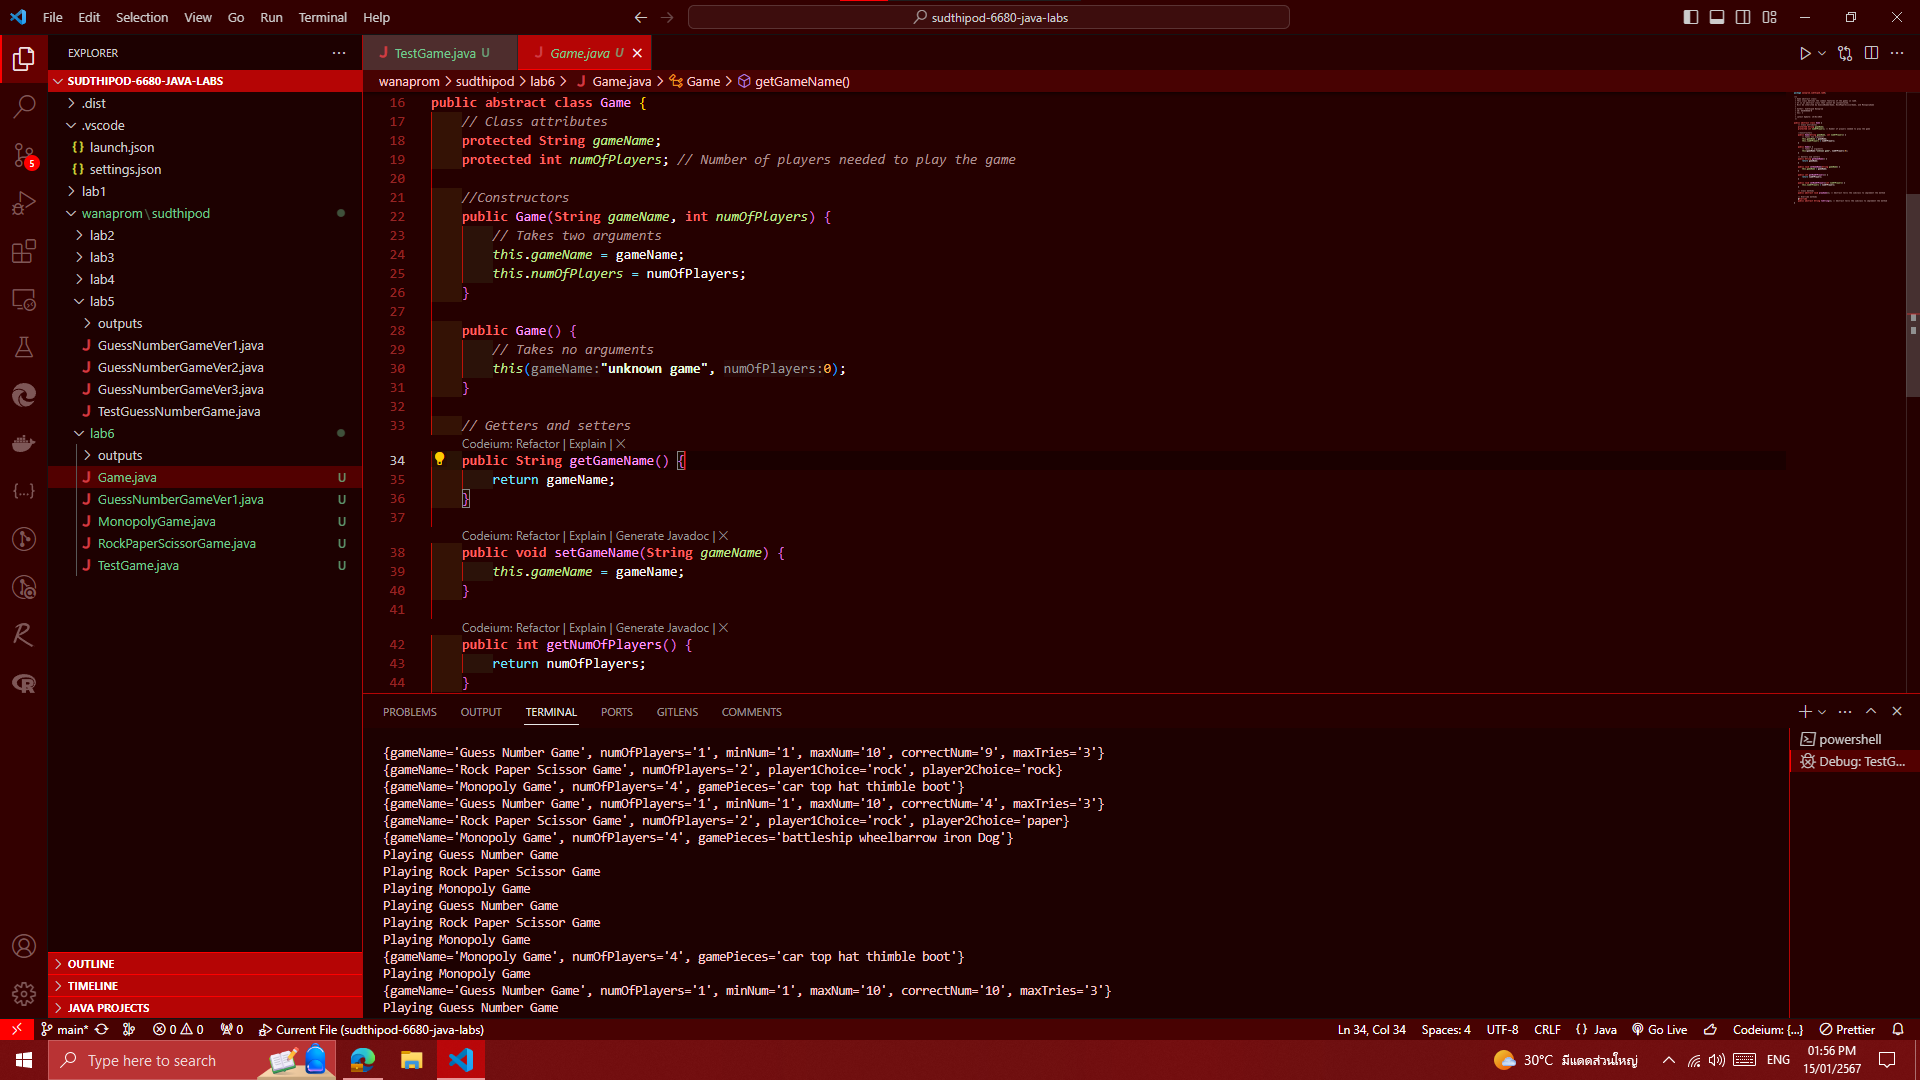
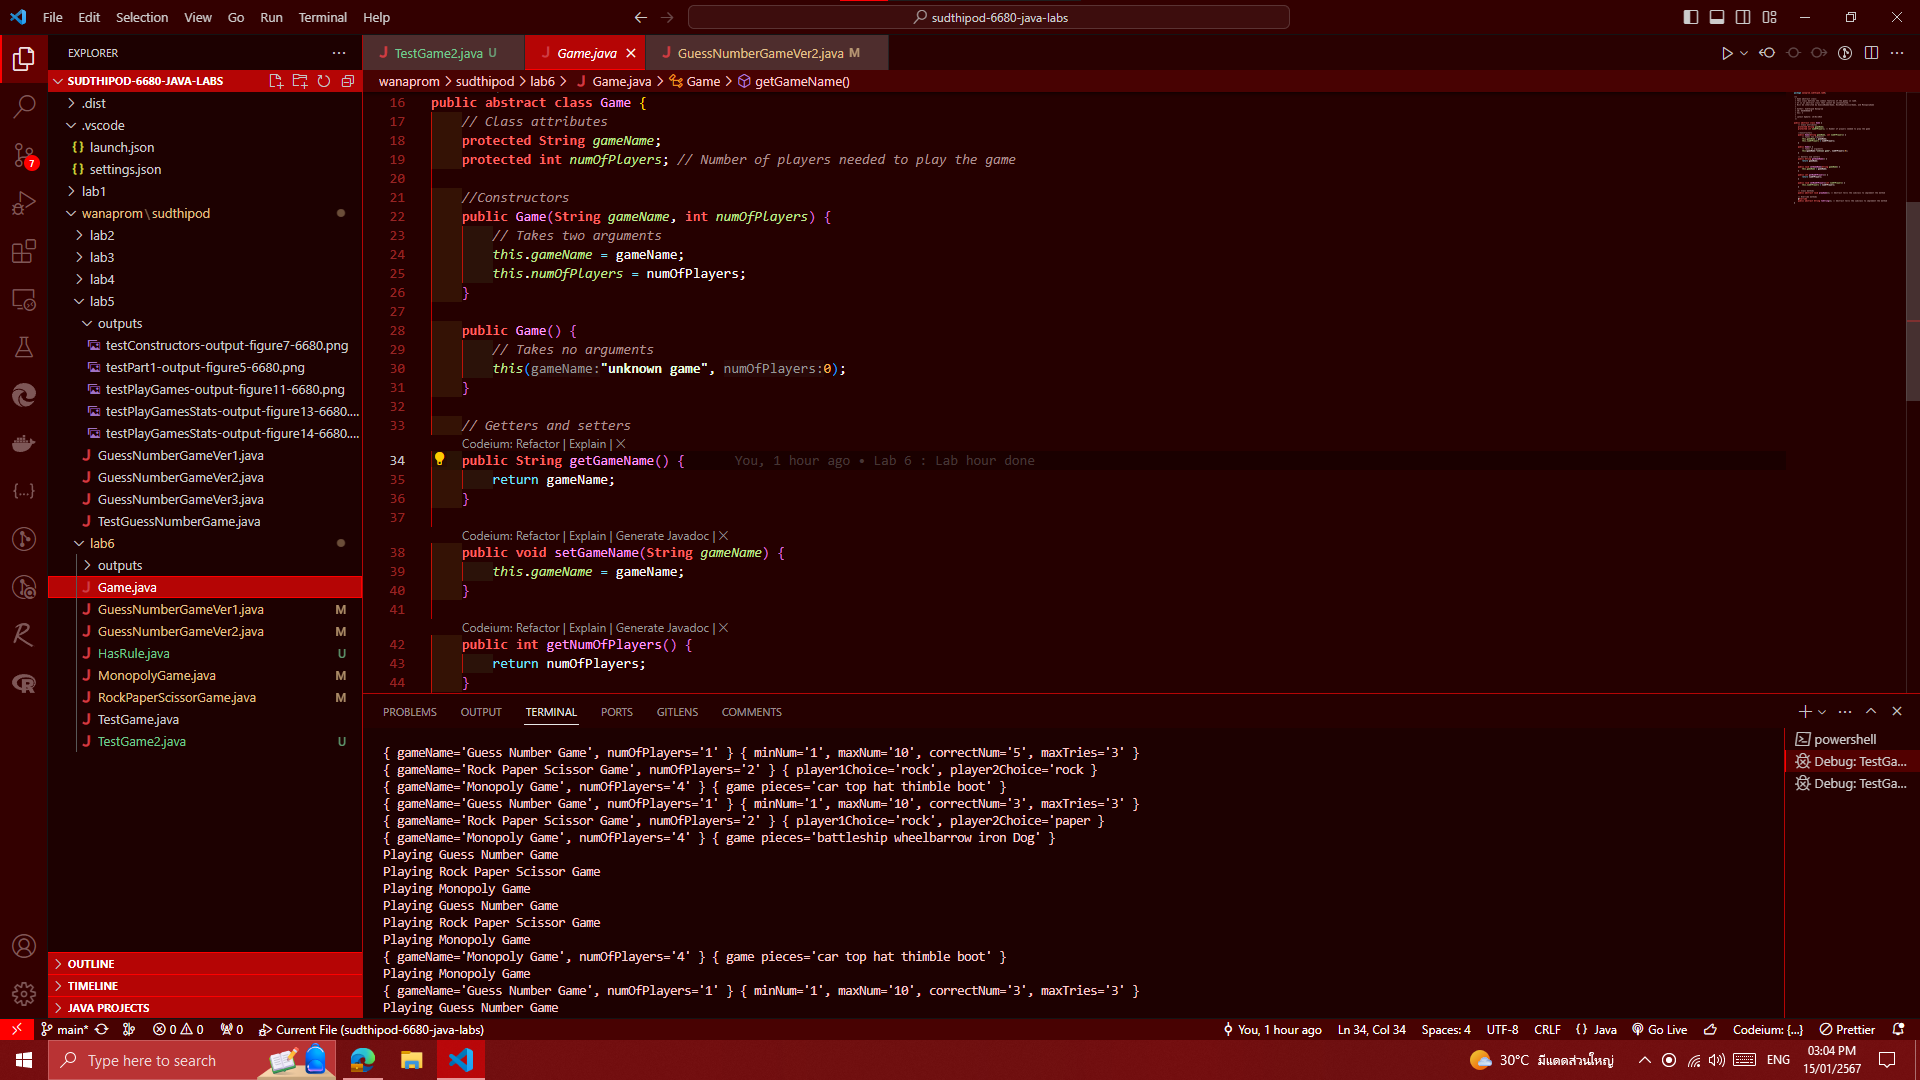
output figures alternated

diff --git a/wanaprom/sudthipod/lab6/GuessNumberGameVer2.java b/wanaprom/sudthipod/lab6/GuessNumberGameVer2.java
@@ -1,6 +1,18 @@
 package wanaprom.sudthipod.lab6;
 
-public class GuessNumberGameVer2 extends GuessNumberGameVer1{
+/**
+ * GuessNumberGameVer2:
+ * This game class is an extension of the GuessNumberGameVer1.
+ * The class implements the HasRule interface.
+ *
+ * Author: Sudthipod Wanaprom
+ * ID: 663040668-0
+ * Sec: 2
+ *
+ * Latest Update: 15/01/2024
+ */
+
+public class GuessNumberGameVer2 extends GuessNumberGameVer1 implements HasRule {
     // Constructors
     public GuessNumberGameVer2(int minNum, int maxNum, int maxTries) {
         super(minNum, maxNum, maxTries);
@@ -13,19 +25,62 @@ public class GuessNumberGameVer2 extends GuessNumberGameVer1{
     public GuessNumberGameVer2() {
         super();
     }
+
+    // Game rules
+    public void gameRule() { // @Override keyword is not needed here
+        System.out.println("Guess Number Game Rules : ...");
+    }
     
     // Play the game method
+    @Override
+    public void playGame() { // Why do we need to override this method?
+        System.out.println("Playing " + super.gameName + " Version 2"); // Announce the game
+
+        /* Gameplay is unnecessary for now
+
+        // Initialization
+        int numOfTries = 0; // Number of tries for each game
+        int userGuess; // User input holder
+
+        // Start the game loop
+        System.out.println("Welcome to a number guessing game!");
+        while (true) {
+            // Get user input
+            System.out.print("Enter an integer between " + minNum + " and " + maxNum + ": ");
+            userGuess = input.nextInt(); // Assume input is an integer in the range from 1 to 10
+            numOfTries++;
+
+            // Judge the answer
+            if (userGuess == correctNum) {
+                System.out.println("Congratulations!");
+                System.out.println("You have tried " + numOfTries + " time" + (numOfTries > 1 ? "s." : "."));
+                break;
+            } else if (userGuess < correctNum) {
+                System.out.println("Try a higher number.");
+            } else {
+                System.out.println("Try a lower number.");
+            }
+
+            // Run out of tries number but still didn't win
+            if (numOfTries >= maxTries) {
+                System.out.println("You have tried " + numOfTries + " time" + (numOfTries > 1 ? "s." : ".") + " You ran out of guesses.");
+                System.out.println("The answer is " + correctNum);
+                break;
+            }
+        }
+        */
+    }
 
     // Override toString() with information about the game
-    @Override
-    public String toString() {
-        return "{" +
+    public String toString() { // @Override keyword is not also needed here
+        return super.gameName + " Version 2 : { " +
                 "gameName='" + super.gameName + "', " +
-                "numOfPlayers='" + super.numOfPlayers + "', " +
+                "numOfPlayers='" + super.numOfPlayers +
+                "' } { " +
                 "minNum='" + this.minNum + "', " +
                 "maxNum='" + this.maxNum + "', " +
                 "correctNum='" + this.correctNum + "', " +
                 "maxTries='" + this.maxTries + "'" +
-                "}";
+                " }";
     }
 }

diff --git a/wanaprom/sudthipod/lab6/GuessNumberGameVer1.java b/wanaprom/sudthipod/lab6/GuessNumberGameVer1.java
@@ -109,13 +109,14 @@ public class GuessNumberGameVer1 extends Game {
 
     // Override toString() with information about the game
     public String toString() { // @Override keyword is not also needed here
-        return "{" +
+        return "{ " +
                 "gameName='" + super.gameName + "', " +
-                "numOfPlayers='" + super.numOfPlayers + "', " +
+                "numOfPlayers='" + super.numOfPlayers +
+                "' } { " +
                 "minNum='" + this.minNum + "', " +
                 "maxNum='" + this.maxNum + "', " +
                 "correctNum='" + this.correctNum + "', " +
                 "maxTries='" + this.maxTries + "'" +
-                "}";
+                " }";
     }
 }

diff --git a/wanaprom/sudthipod/lab6/MonopolyGame.java b/wanaprom/sudthipod/lab6/MonopolyGame.java
@@ -52,10 +52,11 @@ public class MonopolyGame extends Game {
 
     // Override toString() with information about the game
     public String toString() { // @Override keyword is not also needed here
-        return "{" +
+        return "{ " +
                 "gameName='" + super.gameName + "', " +
-                "numOfPlayers='" + super.numOfPlayers + "', " +
-                "gamePieces='" + String.join(" ", gamePieces) + "'" +
-                "}";
+                "numOfPlayers='" + super.numOfPlayers +
+                "' } { " +
+                "game pieces='" + String.join(" ", gamePieces) + "'" +
+                " }";
     }
 }

diff --git a/wanaprom/sudthipod/lab6/RockPaperScissorGame.java b/wanaprom/sudthipod/lab6/RockPaperScissorGame.java
@@ -72,11 +72,12 @@ public class RockPaperScissorGame extends Game {
 
     // Override toString() with information about the game
     public String toString() { // @Override keyword is not also needed here
-        return "{" +
+        return "{ " +
                 "gameName='" + super.gameName + "', " +
-                "numOfPlayers='" + super.numOfPlayers + "', " +
+                "numOfPlayers='" + super.numOfPlayers +
+                "' } { " +
                 "player1Choice='" + this.player1Choice + "', " +
                 "player2Choice='" + this.player2Choice +
-                "}";
+                " }";
     }
 }

diff --git a/wanaprom/sudthipod/lab6/TestGame2.java b/wanaprom/sudthipod/lab6/TestGame2.java
@@ -9,7 +9,7 @@ package wanaprom.sudthipod.lab6;
  * Sec: 2
  */
 
-public class TestGames2 {
+public class TestGame2 {
     public static void main(String[] args) {
         /*
         GuessNumberGameVer2 game1 = new GuessNumberGameVer2();

diff --git a/wanaprom/sudthipod/lab6/HasRule.java b/wanaprom/sudthipod/lab6/HasRule.java
@@ -1,0 +1,5 @@
+package wanaprom.sudthipod.lab6;
+
+public interface HasRule {
+    public void gameRule();
+}
